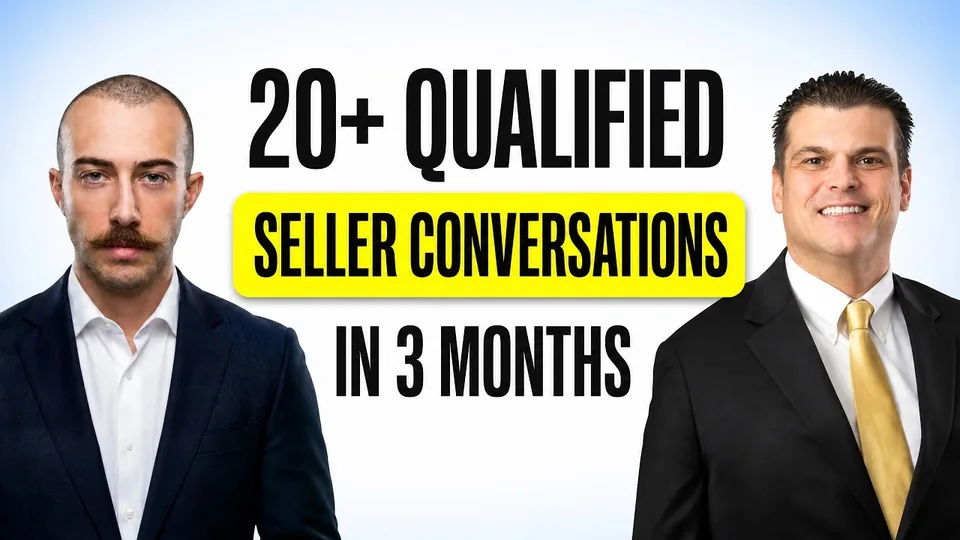
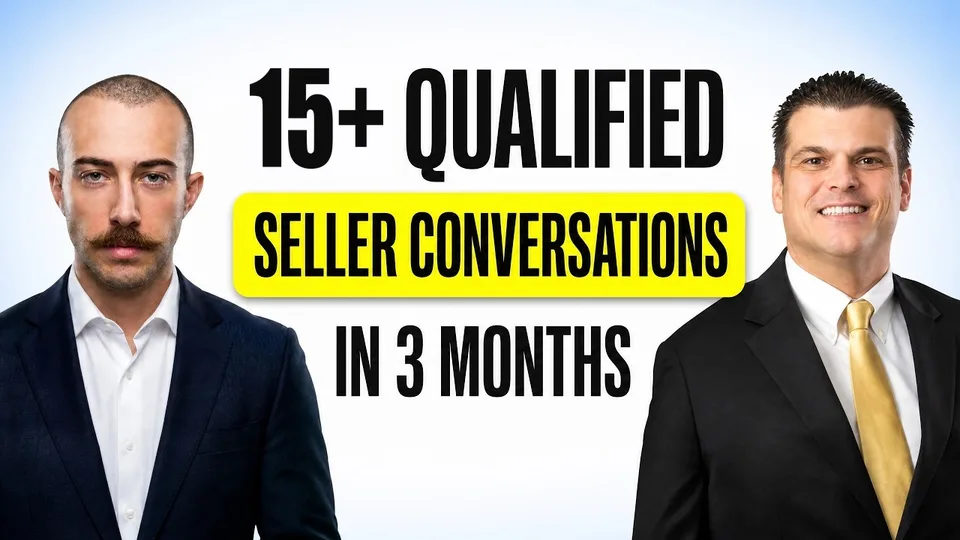
fix(case-studies): deck typos, Midwest video thumb + card say 15+ to match page, objections chart rebuilt from real reply review (94 declines)

Changed region(s): [[0.25, 0.1185, 0.4062, 0.3259]]

diff --git a/src/styles/global.css b/src/styles/global.css
@@ -226,3 +226,9 @@ input, textarea, select { font: inherit; }
   .vsl-meta { display: none; }
 }
 .viewer::backdrop { background: rgb(13 27 42 / .72); }
+
+/* Case-study bar chart built from real counts */
+.obj-row { display: grid; grid-template-columns: minmax(150px, 210px) 1fr 32px; align-items: center; gap: 12px; font-size: 14px; }
+.obj-bar { height: 10px; border-radius: 999px; background: var(--color-line); overflow: hidden; }
+.obj-bar > span { display: block; height: 100%; border-radius: 999px; background: var(--color-accent); }
+@media (max-width: 767px) { .obj-row { grid-template-columns: 1fr 28px; row-gap: 5px; padding-bottom: 10px; } .obj-row .obj-bar { grid-column: 1 / -1; grid-row: 2; } }
